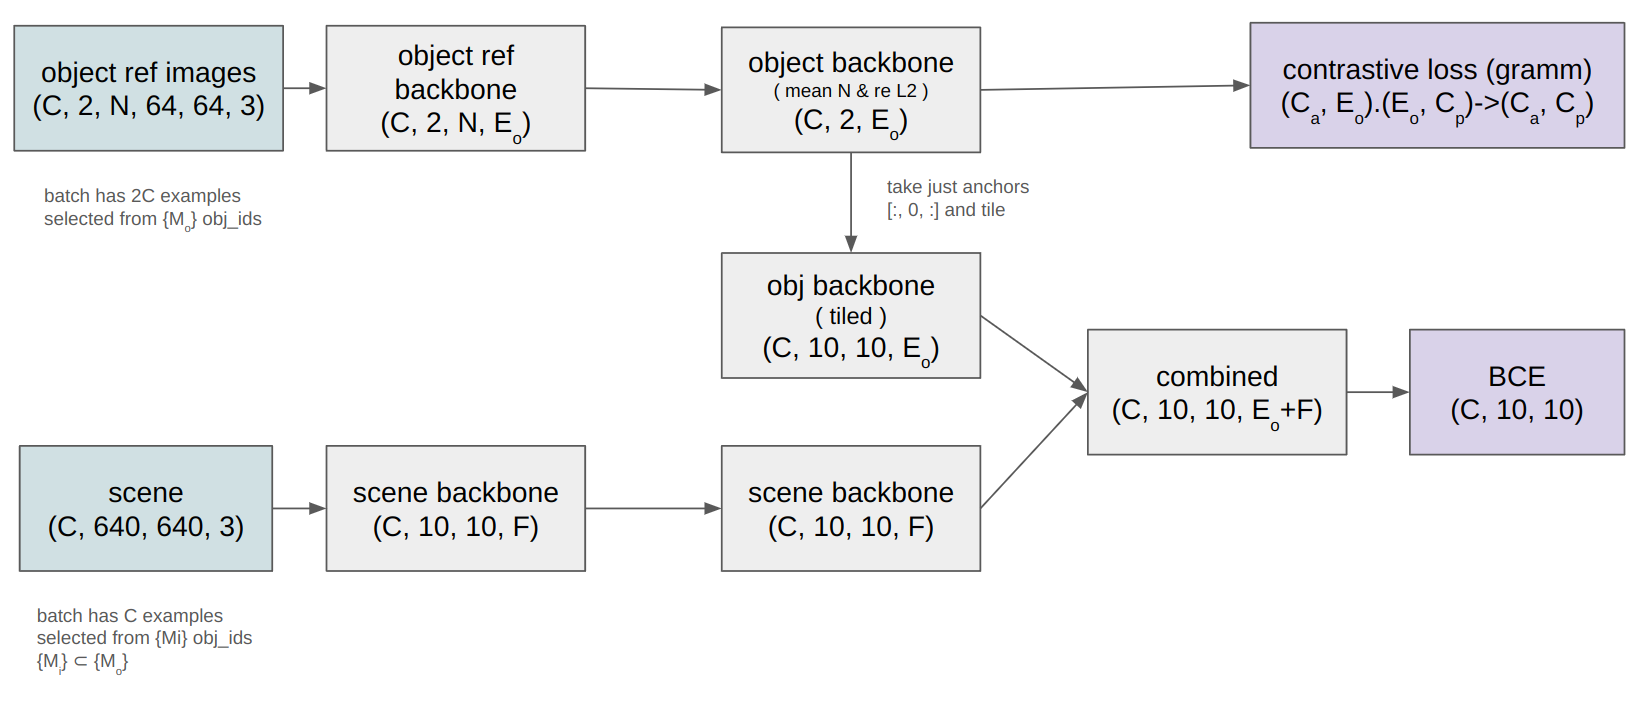
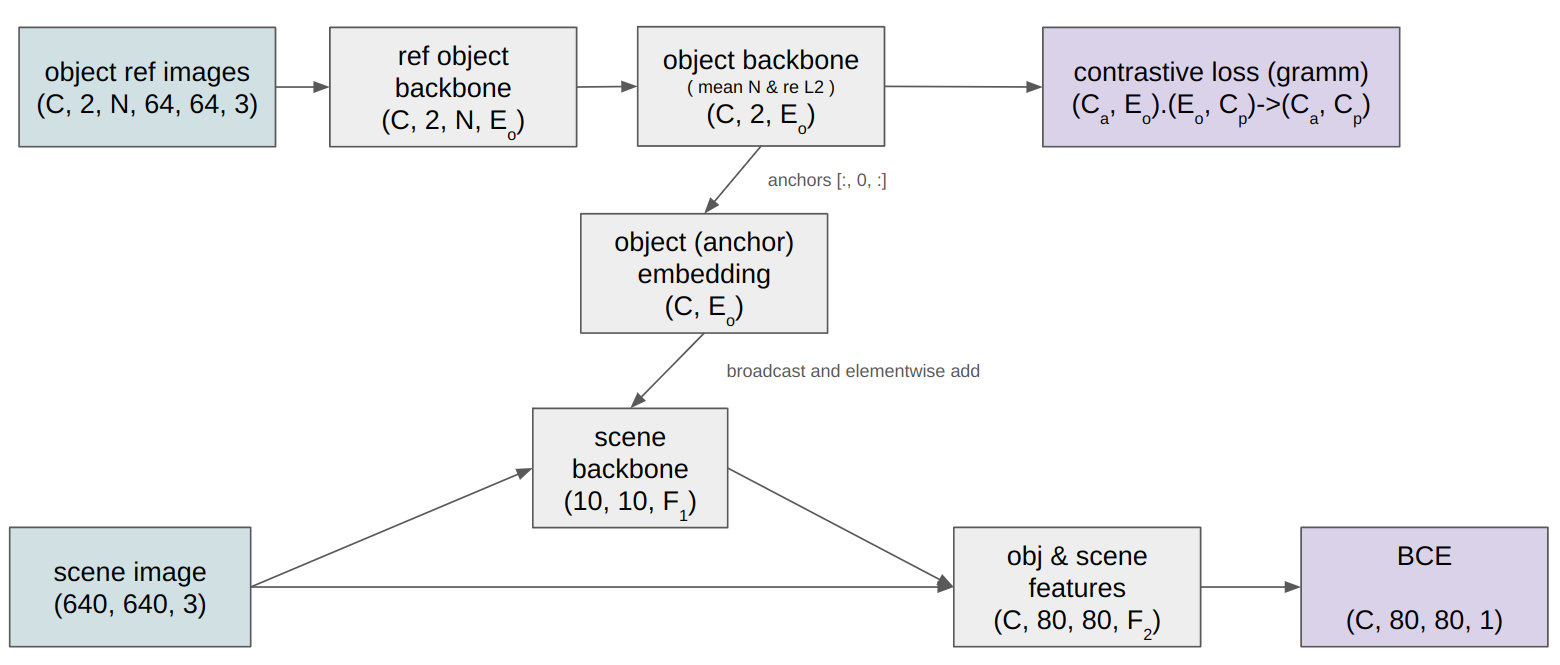
update README re: v4

diff --git a/README.md b/README.md
@@ -9,6 +9,8 @@ see https://matpalm.com/blog/yolz for a walkthrough
 
 ![highlevel diagram of model](model.png)
 
+![example result](step_045000.obj_5.y_true_pred.alpha.png)
+
 ## high level repro
 
 ```
@@ -47,24 +49,24 @@ training is split across two keras models and run using `stateless_call`
 ├──────────────────────────────────────┼─────────────────────────────┼─────────────────┤
 │ obj_e_2_relu_m (Activation)          │ (None, 8, 8, 64)            │               0 │
 ├──────────────────────────────────────┼─────────────────────────────┼─────────────────┤
-│ obj_e_3_conv_m (Conv2D)              │ (None, 4, 4, 128)           │          73,856 │
+│ obj_e_3_conv_m (Conv2D)              │ (None, 4, 4, 256)           │         147,712 │
 ├──────────────────────────────────────┼─────────────────────────────┼─────────────────┤
-│ obj_e_3_bn_m (BatchNormalization)    │ (None, 4, 4, 128)           │             512 │
+│ obj_e_3_bn_m (BatchNormalization)    │ (None, 4, 4, 256)           │           1,024 │
 ├──────────────────────────────────────┼─────────────────────────────┼─────────────────┤
-│ obj_e_3_relu_m (Activation)          │ (None, 4, 4, 128)           │               0 │
+│ obj_e_3_relu_m (Activation)          │ (None, 4, 4, 256)           │               0 │
 ├──────────────────────────────────────┼─────────────────────────────┼─────────────────┤
-│ obj_e_gp (GlobalMaxPooling2D)        │ (None, 128)                 │               0 │
+│ obj_e_gp (GlobalMaxPooling2D)        │ (None, 256)                 │               0 │
 ├──────────────────────────────────────┼─────────────────────────────┼─────────────────┤
-│ obj_embeddings (Dense)               │ (None, 128)                 │          16,384 │
+│ obj_embeddings (Dense)               │ (None, 512)                 │         131,072 │
 ├──────────────────────────────────────┼─────────────────────────────┼─────────────────┤
-│ obj_e_l2 (L2Normalisation)           │ (None, 128)                 │               0 │
+│ obj_e_l2 (L2Normalisation)           │ (None, 512)                 │               0 │
 └──────────────────────────────────────┴─────────────────────────────┴─────────────────┘
- Total params: 114,784 (448.38 KB)
- Trainable params: 114,304 (446.50 KB)
- Non-trainable params: 480 (1.88 KB)
+ Total params: 303,840 (1.16 MB)
+ Trainable params: 303,104 (1.16 MB)
+ Non-trainable params: 736 (2.88 KB)
 ```
 
-trained contrastive loss
+trained with contrastive loss
 
 ### scene
 
@@ -74,81 +76,127 @@ trained contrastive loss
 ┡━━━━━━━━━━━━━━━━━━━━━━━━━━━━━━━╇━━━━━━━━━━━━━━━━━━━━━━━━━━━╇━━━━━━━━━━━━━━━━━╇━━━━━━━━━━━━━━━━━━━━━━━━━━━━┩
 │ scene_input (InputLayer)      │ (None, 640, 640, 3)       │               0 │ -                          │
 ├───────────────────────────────┼───────────────────────────┼─────────────────┼────────────────────────────┤
-│ scene_0_conv_m (Conv2D)       │ (None, 320, 320, 8)       │             224 │ scene_input[0][0]          │
+│ scene_down_0_conv_m (Conv2D)  │ (None, 320, 320, 16)      │             448 │ scene_input[0][0]          │
 ├───────────────────────────────┼───────────────────────────┼─────────────────┼────────────────────────────┤
-│ scene_0_bn_m                  │ (None, 320, 320, 8)       │              32 │ scene_0_conv_m[0][0]       │
+│ scene_down_0_bn_m             │ (None, 320, 320, 16)      │              64 │ scene_down_0_conv_m[0][0]  │
 │ (BatchNormalization)          │                           │                 │                            │
 ├───────────────────────────────┼───────────────────────────┼─────────────────┼────────────────────────────┤
-│ scene_0_relu_m (Activation)   │ (None, 320, 320, 8)       │               0 │ scene_0_bn_m[0][0]         │
+│ scene_down_0_relu_m           │ (None, 320, 320, 16)      │               0 │ scene_down_0_bn_m[0][0]    │
+│ (Activation)                  │                           │                 │                            │
 ├───────────────────────────────┼───────────────────────────┼─────────────────┼────────────────────────────┤
-│ scene_1_conv_m (Conv2D)       │ (None, 160, 160, 16)      │           1,168 │ scene_0_relu_m[0][0]       │
+│ scene_down_1_conv_m (Conv2D)  │ (None, 160, 160, 32)      │           4,640 │ scene_down_0_relu_m[0][0]  │
 ├───────────────────────────────┼───────────────────────────┼─────────────────┼────────────────────────────┤
-│ scene_1_bn_m                  │ (None, 160, 160, 16)      │              64 │ scene_1_conv_m[0][0]       │
+│ scene_down_1_bn_m             │ (None, 160, 160, 32)      │             128 │ scene_down_1_conv_m[0][0]  │
 │ (BatchNormalization)          │                           │                 │                            │
 ├───────────────────────────────┼───────────────────────────┼─────────────────┼────────────────────────────┤
-│ scene_1_relu_m (Activation)   │ (None, 160, 160, 16)      │               0 │ scene_1_bn_m[0][0]         │
+│ scene_down_1_relu_m           │ (None, 160, 160, 32)      │               0 │ scene_down_1_bn_m[0][0]    │
+│ (Activation)                  │                           │                 │                            │
 ├───────────────────────────────┼───────────────────────────┼─────────────────┼────────────────────────────┤
-│ scene_2_conv_m (Conv2D)       │ (None, 80, 80, 32)        │           4,640 │ scene_1_relu_m[0][0]       │
+│ scene_down_2_conv_m (Conv2D)  │ (None, 80, 80, 64)        │          18,496 │ scene_down_1_relu_m[0][0]  │
 ├───────────────────────────────┼───────────────────────────┼─────────────────┼────────────────────────────┤
-│ scene_2_bn_m                  │ (None, 80, 80, 32)        │             128 │ scene_2_conv_m[0][0]       │
+│ scene_down_2_bn_m             │ (None, 80, 80, 64)        │             256 │ scene_down_2_conv_m[0][0]  │
 │ (BatchNormalization)          │                           │                 │                            │
 ├───────────────────────────────┼───────────────────────────┼─────────────────┼────────────────────────────┤
-│ scene_2_relu_m (Activation)   │ (None, 80, 80, 32)        │               0 │ scene_2_bn_m[0][0]         │
+│ scene_down_2_relu_m           │ (None, 80, 80, 64)        │               0 │ scene_down_2_bn_m[0][0]    │
+│ (Activation)                  │                           │                 │                            │
 ├───────────────────────────────┼───────────────────────────┼─────────────────┼────────────────────────────┤
-│ scene_3_conv_m (Conv2D)       │ (None, 40, 40, 64)        │          18,496 │ scene_2_relu_m[0][0]       │
+│ scene_down_3_conv_m (Conv2D)  │ (None, 40, 40, 128)       │          73,856 │ scene_down_2_relu_m[0][0]  │
 ├───────────────────────────────┼───────────────────────────┼─────────────────┼────────────────────────────┤
-│ scene_3_bn_m                  │ (None, 40, 40, 64)        │             256 │ scene_3_conv_m[0][0]       │
+│ scene_down_3_bn_m             │ (None, 40, 40, 128)       │             512 │ scene_down_3_conv_m[0][0]  │
 │ (BatchNormalization)          │                           │                 │                            │
 ├───────────────────────────────┼───────────────────────────┼─────────────────┼────────────────────────────┤
-│ scene_3_relu_m (Activation)   │ (None, 40, 40, 64)        │               0 │ scene_3_bn_m[0][0]         │
+│ scene_down_3_relu_m           │ (None, 40, 40, 128)       │               0 │ scene_down_3_bn_m[0][0]    │
+│ (Activation)                  │                           │                 │                            │
 ├───────────────────────────────┼───────────────────────────┼─────────────────┼────────────────────────────┤
-│ scene_4_conv_m (Conv2D)       │ (None, 20, 20, 128)       │          73,856 │ scene_3_relu_m[0][0]       │
+│ scene_down_4_conv_m (Conv2D)  │ (None, 20, 20, 256)       │         295,168 │ scene_down_3_relu_m[0][0]  │
 ├───────────────────────────────┼───────────────────────────┼─────────────────┼────────────────────────────┤
-│ scene_4_bn_m                  │ (None, 20, 20, 128)       │             512 │ scene_4_conv_m[0][0]       │
+│ scene_down_4_bn_m             │ (None, 20, 20, 256)       │           1,024 │ scene_down_4_conv_m[0][0]  │
 │ (BatchNormalization)          │                           │                 │                            │
 ├───────────────────────────────┼───────────────────────────┼─────────────────┼────────────────────────────┤
-│ scene_4_relu_m (Activation)   │ (None, 20, 20, 128)       │               0 │ scene_4_bn_m[0][0]         │
+│ scene_down_4_relu_m           │ (None, 20, 20, 256)       │               0 │ scene_down_4_bn_m[0][0]    │
+│ (Activation)                  │                           │                 │                            │
 ├───────────────────────────────┼───────────────────────────┼─────────────────┼────────────────────────────┤
-│ scene_5_conv_m (Conv2D)       │ (None, 10, 10, 128)       │         147,584 │ scene_4_relu_m[0][0]       │
+│ scene_down_5_conv_m (Conv2D)  │ (None, 10, 10, 256)       │         590,080 │ scene_down_4_relu_m[0][0]  │
 ├───────────────────────────────┼───────────────────────────┼─────────────────┼────────────────────────────┤
-│ scene_5_bn_m                  │ (None, 10, 10, 128)       │             512 │ scene_5_conv_m[0][0]       │
+│ scene_down_5_bn_m             │ (None, 10, 10, 256)       │           1,024 │ scene_down_5_conv_m[0][0]  │
 │ (BatchNormalization)          │                           │                 │                            │
 ├───────────────────────────────┼───────────────────────────┼─────────────────┼────────────────────────────┤
-│ scene_5_relu_m (Activation)   │ (None, 10, 10, 128)       │               0 │ scene_5_bn_m[0][0]         │
+│ scene_down_5_relu_m           │ (None, 10, 10, 256)       │               0 │ scene_down_5_bn_m[0][0]    │
+│ (Activation)                  │                           │                 │                            │
 ├───────────────────────────────┼───────────────────────────┼─────────────────┼────────────────────────────┤
-│ obj_embedding_inp             │ (None, 128)               │               0 │ -                          │
+│ obj_embedding_inp             │ (None, 512)               │               0 │ -                          │
 │ (InputLayer)                  │                           │                 │                            │
 ├───────────────────────────────┼───────────────────────────┼─────────────────┼────────────────────────────┤
-│ scene_features (Dense)        │ (None, 10, 10, 128)       │          16,384 │ scene_5_relu_m[0][0]       │
+│ scene_features (Dense)        │ (None, 10, 10, 512)       │         131,072 │ scene_down_5_relu_m[0][0]  │
 ├───────────────────────────────┼───────────────────────────┼─────────────────┼────────────────────────────┤
-│ tiled_obj_emb (Tiling)        │ (None, 10, 10, 128)       │               0 │ obj_embedding_inp[0][0]    │
+│ broadcast_e (Broadcast)       │ (None, 10, 10, 512)       │               0 │ obj_embedding_inp[0][0]    │
 ├───────────────────────────────┼───────────────────────────┼─────────────────┼────────────────────────────┤
-│ concatenate (Concatenate)     │ (None, 10, 10, 256)       │               0 │ scene_features[0][0],      │
-│                               │                           │                 │ tiled_obj_emb[0][0]        │
+│ add (Add)                     │ (None, 10, 10, 512)       │               0 │ scene_features[0][0],      │
+│                               │                           │                 │ broadcast_e[0][0]          │
 ├───────────────────────────────┼───────────────────────────┼─────────────────┼────────────────────────────┤
-│ classifier_0_conv1x1_m        │ (None, 10, 10, 64)        │          16,448 │ concatenate[0][0]          │
-│ (Conv2D)                      │                           │                 │                            │
+│ up_sampling2d (UpSampling2D)  │ (None, 20, 20, 512)       │               0 │ add[0][0]                  │
 ├───────────────────────────────┼───────────────────────────┼─────────────────┼────────────────────────────┤
-│ classifier_0_bn_m             │ (None, 10, 10, 64)        │             256 │ classifier_0_conv1x1_m[0]… │
+│ scene_up_0_conv_m (Conv2D)    │ (None, 20, 20, 256)       │         131,328 │ up_sampling2d[0][0]        │
+├───────────────────────────────┼───────────────────────────┼─────────────────┼────────────────────────────┤
+│ scene_up_0_bn_m               │ (None, 20, 20, 256)       │           1,024 │ scene_up_0_conv_m[0][0]    │
 │ (BatchNormalization)          │                           │                 │                            │
 ├───────────────────────────────┼───────────────────────────┼─────────────────┼────────────────────────────┤
-│ classifier_0_relu_m           │ (None, 10, 10, 64)        │               0 │ classifier_0_bn_m[0][0]    │
+│ scene_up_0_relu_m             │ (None, 20, 20, 256)       │               0 │ scene_up_0_bn_m[0][0]      │
 │ (Activation)                  │                           │                 │                            │
 ├───────────────────────────────┼───────────────────────────┼─────────────────┼────────────────────────────┤
-│ classifier_1_conv1x1_m        │ (None, 10, 10, 64)        │           4,160 │ classifier_0_relu_m[0][0]  │
-│ (Conv2D)                      │                           │                 │                            │
+│ add_1 (Add)                   │ (None, 20, 20, 256)       │               0 │ scene_up_0_relu_m[0][0],   │
+│                               │                           │                 │ scene_down_4_relu_m[0][0]  │
 ├───────────────────────────────┼───────────────────────────┼─────────────────┼────────────────────────────┤
-│ classifier_1_bn_m             │ (None, 10, 10, 64)        │             256 │ classifier_1_conv1x1_m[0]… │
+│ up_sampling2d_1               │ (None, 40, 40, 256)       │               0 │ add_1[0][0]                │
+│ (UpSampling2D)                │                           │                 │                            │
+├───────────────────────────────┼───────────────────────────┼─────────────────┼────────────────────────────┤
+│ scene_up_1_conv_m (Conv2D)    │ (None, 40, 40, 128)       │          32,896 │ up_sampling2d_1[0][0]      │
+├───────────────────────────────┼───────────────────────────┼─────────────────┼────────────────────────────┤
+│ scene_up_1_bn_m               │ (None, 40, 40, 128)       │             512 │ scene_up_1_conv_m[0][0]    │
 │ (BatchNormalization)          │                           │                 │                            │
 ├───────────────────────────────┼───────────────────────────┼─────────────────┼────────────────────────────┤
-│ classifier_1_relu_m           │ (None, 10, 10, 64)        │               0 │ classifier_1_bn_m[0][0]    │
+│ scene_up_1_relu_m             │ (None, 40, 40, 128)       │               0 │ scene_up_1_bn_m[0][0]      │
 │ (Activation)                  │                           │                 │                            │
 ├───────────────────────────────┼───────────────────────────┼─────────────────┼────────────────────────────┤
-│ classifier (Dense)            │ (None, 10, 10, 1)         │              65 │ classifier_1_relu_m[0][0]  │
+│ add_2 (Add)                   │ (None, 40, 40, 128)       │               0 │ scene_up_1_relu_m[0][0],   │
+│                               │                           │                 │ scene_down_3_relu_m[0][0]  │
+├───────────────────────────────┼───────────────────────────┼─────────────────┼────────────────────────────┤
+│ up_sampling2d_2               │ (None, 80, 80, 128)       │               0 │ add_2[0][0]                │
+│ (UpSampling2D)                │                           │                 │                            │
+├───────────────────────────────┼───────────────────────────┼─────────────────┼────────────────────────────┤
+│ scene_up_2_conv_m (Conv2D)    │ (None, 80, 80, 64)        │           8,256 │ up_sampling2d_2[0][0]      │
+├───────────────────────────────┼───────────────────────────┼─────────────────┼────────────────────────────┤
+│ scene_up_2_bn_m               │ (None, 80, 80, 64)        │             256 │ scene_up_2_conv_m[0][0]    │
+│ (BatchNormalization)          │                           │                 │                            │
+├───────────────────────────────┼───────────────────────────┼─────────────────┼────────────────────────────┤
+│ scene_up_2_relu_m             │ (None, 80, 80, 64)        │               0 │ scene_up_2_bn_m[0][0]      │
+│ (Activation)                  │                           │                 │                            │
+├───────────────────────────────┼───────────────────────────┼─────────────────┼────────────────────────────┤
+│ add_3 (Add)                   │ (None, 80, 80, 64)        │               0 │ scene_up_2_relu_m[0][0],   │
+│                               │                           │                 │ scene_down_2_relu_m[0][0]  │
+├───────────────────────────────┼───────────────────────────┼─────────────────┼────────────────────────────┤
+│ classifier_0_conv_m (Conv2D)  │ (None, 80, 80, 256)       │          16,640 │ add_3[0][0]                │
+├───────────────────────────────┼───────────────────────────┼─────────────────┼────────────────────────────┤
+│ classifier_0_bn_m             │ (None, 80, 80, 256)       │           1,024 │ classifier_0_conv_m[0][0]  │
+│ (BatchNormalization)          │                           │                 │                            │
+├───────────────────────────────┼───────────────────────────┼─────────────────┼────────────────────────────┤
+│ classifier_0_relu_m           │ (None, 80, 80, 256)       │               0 │ classifier_0_bn_m[0][0]    │
+│ (Activation)                  │                           │                 │                            │
+├───────────────────────────────┼───────────────────────────┼─────────────────┼────────────────────────────┤
+│ classifier_1_conv_m (Conv2D)  │ (None, 80, 80, 128)       │          32,896 │ classifier_0_relu_m[0][0]  │
+├───────────────────────────────┼───────────────────────────┼─────────────────┼────────────────────────────┤
+│ classifier_1_bn_m             │ (None, 80, 80, 128)       │             512 │ classifier_1_conv_m[0][0]  │
+│ (BatchNormalization)          │                           │                 │                            │
+├───────────────────────────────┼───────────────────────────┼─────────────────┼────────────────────────────┤
+│ classifier_1_relu_m           │ (None, 80, 80, 128)       │               0 │ classifier_1_bn_m[0][0]    │
+│ (Activation)                  │                           │                 │                            │
+├───────────────────────────────┼───────────────────────────┼─────────────────┼────────────────────────────┤
+│ classifier (Dense)            │ (None, 80, 80, 1)         │             129 │ classifier_1_relu_m[0][0]  │
 └───────────────────────────────┴───────────────────────────┴─────────────────┴────────────────────────────┘
- Total params: 285,041 (1.09 MB)
- Trainable params: 284,033 (1.08 MB)
- Non-trainable params: 1,008 (3.94 KB)
+ Total params: 1,342,241 (5.12 MB)
+ Trainable params: 1,339,073 (5.11 MB)
+ Non-trainable params: 3,168 (12.38 KB)
+
 ```
 
 trained with (binary) focal loss
